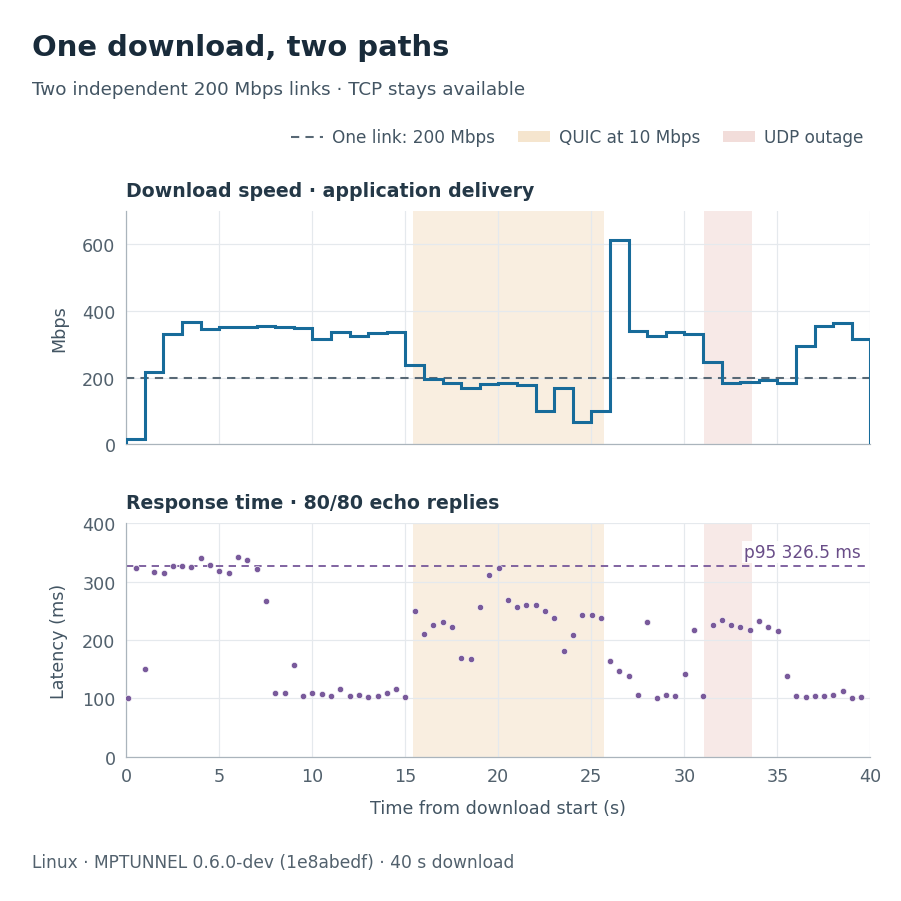
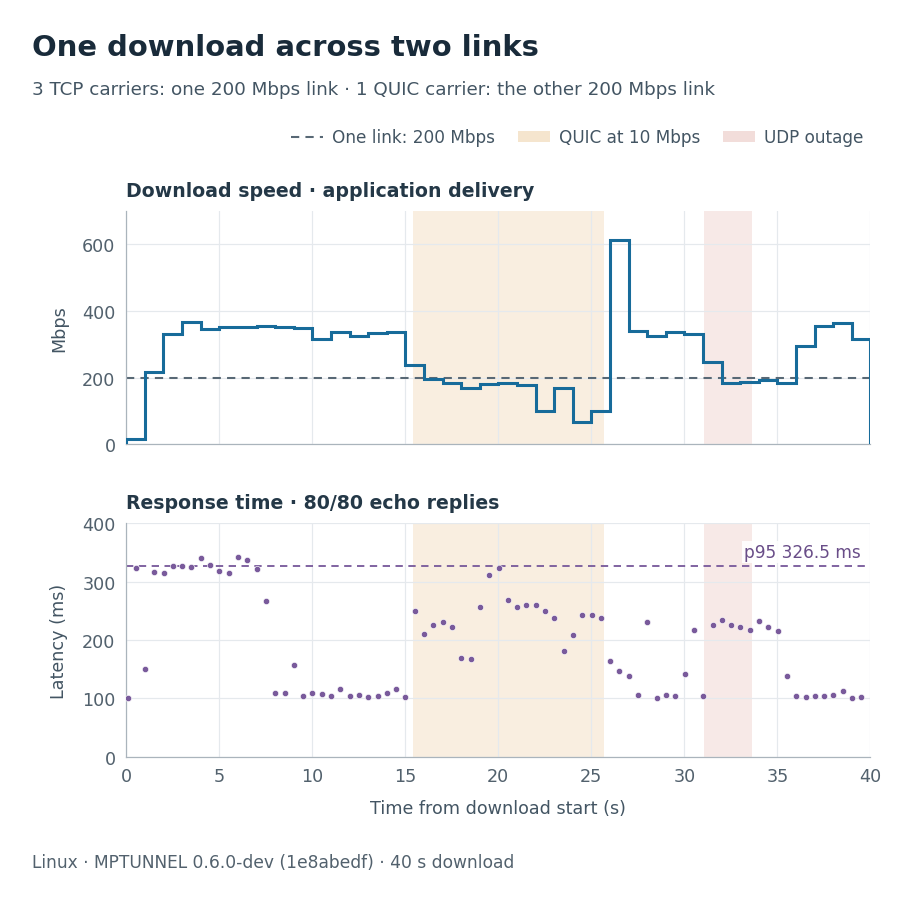
docs: explain carrier aggregation and benchmark topology
Accepted: introduce the motivation and many-carrier MPP model, distinguish configured paths from physical links, and label measured carrier sets before comparisons. Move version-specific upgrade guidance into the operations links. Preserve all measurements and comparison coverage.

Verified by an independent fresh-reader review, desktop and mobile browser screenshots, 66 local links, 6 documentation tests, 14 package-contract tests, and deterministic regeneration of all seven current figure assets.

Changed region(s): [[0.0311, 0.0932, 0.7769, 0.1243], [0.3108, 0.0311, 0.5905, 0.0622]]

diff --git a/docs/assets/performance/render.py b/docs/assets/performance/render.py
@@ -41,6 +41,13 @@ SYSTEM_LABELS = {
     "xray": "Xray VMess/TCP",
     "raw": "Direct TCP",
 }
+SYSTEM_CHART_LABELS = {
+    "mixed": "MPTUNNEL TCP+QUIC\n4 carriers: 3 TCP + 1 QUIC",
+    "h2": "Hysteria2",
+    "quic": "MPTUNNEL QUIC\n1 QUIC carrier",
+    "xray": "Xray VMess/TCP",
+    "raw": "Direct TCP",
+}
 SYSTEM_COLORS = {
     "mixed": "#176B9A",
     "h2": "#D58B24",
@@ -177,8 +184,12 @@ def _accessible_description(rows: list[dict[str, Any]]) -> str:
     return (
         "Two aligned horizontal bar charts compare download throughput, where higher is better, "
         "and loaded reply 95th-percentile latency, where lower is better. They show five "
-        "single observations while a bulk download and small requests share a 500 Mbps down, "
-        "100 Mbps up link. The dashed line marks the configured 500 Mbps download capacity. "
+        "single observations, each from a separate 40-second product run against the same "
+        "physical 500 Mbps down, 100 Mbps up link limit; the products did not compete "
+        "simultaneously. Within each run, that product's bulk download and small requests "
+        "share the link. MPTUNNEL TCP+QUIC used 3 TCP carriers plus 1 QUIC carrier; "
+        "MPTUNNEL QUIC used 1 QUIC carrier. The dashed line marks the configured 500 Mbps "
+        "download capacity. "
         + measurements
         + "."
     )
@@ -206,7 +217,7 @@ def _add_accessible_svg_header(path: Path, title: str, description: str) -> None
 def render_narrow_tradeoffs(rows: list[dict[str, Any]], svg_path: Path) -> None:
     """Render a stacked SVG variant that stays legible in narrow page columns."""
     ordered = sorted(rows, key=lambda row: row["goodput_mbps"], reverse=True)
-    labels = [SYSTEM_LABELS[row["system"]] for row in ordered]
+    labels = [SYSTEM_CHART_LABELS[row["system"]] for row in ordered]
     colors = [SYSTEM_COLORS[row["system"]] for row in ordered]
     y = list(range(len(ordered)))
     throughput = [row["goodput_mbps"] for row in ordered]
@@ -233,7 +244,7 @@ def render_narrow_tradeoffs(rows: list[dict[str, Any]], svg_path: Path) -> None:
     fig.text(
         0.055,
         0.911,
-        "500 Mbps down / 100 Mbps up · downloading with small requests alongside",
+        "Separate product runs · same physical link: 500 down / 100 up Mbps",
         ha="left",
         va="top",
         fontsize=11.7,
@@ -490,12 +501,13 @@ def render_independent_paths(
     average = observation["average"]
 
     matplotlib.rcParams["svg.hashsalt"] = "mptunnel-independent-paths-v1"
-    title = "One download, two paths"
+    title = "One download across two links"
     description = (
         "The upper time series shows all forty raw one-second bins of aggregate application download throughput, "
-        "including startup. The dashed horizontal line is the configured 200 Mbps capacity of one link; it is "
-        "a setting reference, not a separately measured TCP throughput series. The blue transfer combines the "
-        "QUIC and TCP paths, and the TCP path remains configured at 200 Mbps while the QUIC link is shaped. "
+        "including startup. It combines 3 TCP carriers on one 200 Mbps link with 1 QUIC carrier on another "
+        "200 Mbps link. The dashed horizontal line is the configured 200 Mbps capacity of one link; it is a "
+        "setting reference, not a separately measured TCP throughput series. The TCP link remains configured "
+        "at 200 Mbps while the QUIC link is shaped. "
         f"The shaded QUIC command window spans {qos_start:.2f}–{qos_end:.2f} seconds. The shaded UDP block "
         f"runs between recorded transition points at {outage_start:.2f} and {outage_end:.2f} seconds. The lower "
         f"panel plots all eighty successful concurrent echo replies; their measured p95 is {echo_p95:.1f} ms. "
@@ -521,7 +533,7 @@ def render_independent_paths(
     fig.text(
         0.035,
         0.910,
-        "Two independent 200 Mbps links · TCP stays available",
+        "3 TCP carriers: one 200 Mbps link · 1 QUIC carrier: the other 200 Mbps link",
         ha="left",
         va="top",
         fontsize=12.0,
@@ -691,7 +703,7 @@ def render(
     conditions, input_rows = validate_observations(document)
     comparison = document["competitive"]
     rows = sorted(input_rows, key=lambda row: row["goodput_mbps"], reverse=True)
-    labels = [SYSTEM_LABELS[row["system"]] for row in rows]
+    labels = [SYSTEM_CHART_LABELS[row["system"]] for row in rows]
     colors = [SYSTEM_COLORS[row["system"]] for row in rows]
     y = list(range(len(rows)))
     throughput = [row["goodput_mbps"] for row in rows]
@@ -727,7 +739,7 @@ def render(
     fig.text(
         0.035,
         0.910,
-        "500 Mbps down / 100 Mbps up  ·  downloading while small requests run",
+        "Separate product runs · same physical link: 500 down / 100 up Mbps",
         ha="left",
         va="top",
         fontsize=12.3,
@@ -888,10 +900,11 @@ def render_shared_timeline() -> None:
                              gridspec_kw={"height_ratios": [1.1, 1]}, facecolor="white")
     fig.subplots_adjust(left=0.115, right=0.97, top=0.76, bottom=0.12, hspace=0.38)
     fig.text(0.04, 0.96, title, fontsize=19, fontweight="semibold", color="#192B3A")
-    fig.text(0.04, 0.921, "500 Mbps down / 100 Mbps up · jitter clears after startup",
+    fig.text(0.04, 0.921,
+             "Separate product runs · same physical link: 500 down / 100 up Mbps · jitter clears after startup",
              fontsize=11.5, color="#435563")
     handles = [Line2D([0], [0], color=colors[s], lw=2, marker=markers[s],
-                      markersize=4, label=SYSTEM_LABELS[s]) for s in order]
+                      markersize=4, label=SYSTEM_CHART_LABELS[s]) for s in order]
     fig.legend(handles=handles, loc="upper left", bbox_to_anchor=(0.04, 0.898),
                ncol=3, frameon=False, fontsize=10.5, handlelength=1.5, columnspacing=1.6)
     clear_start = min(row["jitter_clear"]["union_s"][0] for row in series.values())
@@ -931,8 +944,11 @@ def render_shared_timeline() -> None:
     fig.text(0.04, 0.035, "Linux · one 40 s run per system · MPTUNNEL 0.6.0-dev (1e8abedf)",
              fontsize=10.5, color="#52616D")
     description = (
-        "Two time-series panels compare MPTUNNEL TCP+QUIC, MPTUNNEL QUIC, Hysteria2, "
-        "Xray VMess/TCP and direct TCP. The first shows all forty one-second download "
+        "Two time-series panels compare MPTUNNEL TCP+QUIC with 3 TCP carriers and 1 QUIC "
+        "carrier, MPTUNNEL QUIC with 1 QUIC carrier, Hysteria2, Xray VMess/TCP and direct TCP. "
+        "Each product has its own 40-second run against the same physical 500 Mbps down, "
+        "100 Mbps up link limit; the products did not compete simultaneously. Within each run, "
+        "the product download and echo probes shared the link. The first panel shows all forty one-second download "
         "delivery bins; the second shows every echo latency at its request start time. "
         "The shaded band spans the recorded jitter-clear commands across the five runs. "
         "The dashed horizontal line is configured capacity, 500 Mbps. "

diff --git a/README.md b/README.md
@@ -4,61 +4,80 @@
 [![Release Build](https://github.com/mnihyc/mptunnel/actions/workflows/release.yml/badge.svg)](https://github.com/mnihyc/mptunnel/actions/workflows/release.yml)
 [![License: Apache-2.0](https://img.shields.io/badge/license-Apache--2.0-blue.svg)](LICENSE)
 
-**One connection. Multiple paths. TCP and QUIC together.**
+**Multipath tunneling for your existing applications.**
 
-MPTUNNEL is an encrypted proxy and tunnel that carries a single application
-connection over several network paths. Combine independent links for more
-capacity, use TCP and QUIC together, and recover undelivered data over another
-carrier when a path fails.
+MPTUNNEL is an encrypted proxy and tunnel that combines TCP and QUIC connections
+to carry your traffic. Even a single download or upload can use several of these
+connections at once, drawing on their available bandwidth and recovering through
+another connection when one stops making progress.
 
 [**Get started**](#quick-start) · [**Download**](../../releases/latest) ·
 [**Performance**](docs/PERFORMANCE.md) · [**Configuration**](examples/config.reference.toml)
 
 ## Why MPTUNNEL?
 
-A download, upload or long-lived connection can use more than one path without
-changes to the application. MPTUNNEL handles path selection and delivers the
-bytes back in order at the other end.
+A fast Internet link does not always mean a fast application connection.
+Individual connections can encounter rate limits, loss or congestion, and the
+best route or transport can change during a transfer. Other connections may
+still have useful capacity.
 
-- **Combine links within one connection.** Spread a transfer across independent
-  paths instead of assigning the entire connection to just one.
-- **Adapt in both directions.** Choose paths using live delivery and latency
-  measurements; upload and download can use different combinations.
-- **Recover across transports.** Move undelivered data to a surviving TCP or
-  QUIC carrier when another carrier stops making progress.
-- **Use it with your existing applications.** SOCKS5, HTTP CONNECT, a mixed
-  proxy listener, TCP/UDP forwarding and TUN share routing and DNS controls.
+MPTUNNEL's Multipath Proxy Protocol (MPP) groups TCP and/or QUIC connections into one
+tunnel between peers. Each transport connection is a **carrier**. MPP distributes
+parts of an application's byte stream across eligible carriers, tracks delivery,
+and puts the bytes back in order at the other end. Undelivered parts can be sent
+again over another carrier, so a transfer can keep moving when one carrier stalls.
 
 ```text
-                         ┌── TCP path ──┐
-Your app ── MPTUNNEL ────┤              ├──── MPTUNNEL ── Destination
-                         └── QUIC path ─┘
-                           one connection
+            One MPP session
+         ┌── TCP 1, 2, … ──┐
+MPTUNNEL ┤                 ├ MPTUNNEL
+         └── QUIC 1, 2, … ─┘
+          TCP, QUIC, or both
 ```
 
-Independent paths can add capacity. TCP and QUIC on the same physical link
-share its bandwidth, while giving the tunnel different transport options.
+Choose TCP-only, QUIC-only or mixed sets, from a few carriers to tens. One MPP
+session carries many application flows, and each reliable flow can use several
+carriers. Upload and download select carriers independently using live delivery
+and latency measurements; the set carrying data changes with demand and conditions.
+
+**Aggregation works on one network link or across several.** On one Internet
+link, parallel carriers share its total bandwidth and can help use it more fully
+when individual connections are limited. With separately routed links, a transfer
+can also draw on their combined capacity. Carrier count and link count are
+different: you can run many carriers through one network interface. To use
+separate links, configure endpoints and source routing to reach them.
+
+Applications connect through SOCKS5, HTTP CONNECT, a mixed proxy listener,
+TCP/UDP forwarding or TUN, with routing and DNS controls. They need no multipath
+support of their own. See the [path configuration guide](docs/OPERATIONS.md#path-policy-and-status)
+to choose carriers and their usage policies.
 
 <a name="performance"></a>
 
 ## See it in action
 
-The [performance guide](docs/PERFORMANCE.md) follows a transfer as one path
-slows down and goes offline, then compares download speed, responsiveness and
-CPU cost with Hysteria2, Xray and direct TCP.
+In the [two-link demonstration](docs/PERFORMANCE.md#one-connection-two-links),
+one download uses three TCP carriers on a 200 Mbps link and one QUIC carrier
+on a separate 200 Mbps link. It averages **268 Mbps** through a slowdown and
+brief UDP outage, using capacity beyond either individual link.
+
+The comparison below asks a different question: how much speed and responsiveness
+does each tunnel provide on **one 500 Mbps download / 100 Mbps upload link**?
+Each system runs separately. MPTUNNEL is measured with **3 TCP + 1 QUIC carriers**
+and with **1 QUIC carrier**.
 
 <a href="docs/PERFORMANCE.md#speed-and-responsiveness">
 <picture>
   <source media="(max-width: 600px)" srcset="docs/assets/performance/shared-link-tradeoffs-narrow.svg">
-  <img src="docs/assets/performance/shared-link-tradeoffs.svg" alt="Download speed and response latency on a shared 500 Mbps connection">
+  <img src="docs/assets/performance/shared-link-tradeoffs.svg" alt="Download speed and response latency with each system using the same 500 Mbps bandwidth limit">
 </picture>
 </a>
 
-In this 40-second Linux download, TCP+QUIC delivered **406 Mbps**;
-QUIC alone delivered **343 Mbps**, with 95% of small echo requests answered
-within **154 ms** during the download. The two modes offer different balances
-of speed and responsiveness.
-[See the setup, full timelines and results](docs/PERFORMANCE.md#speed-and-responsiveness).
+Over these 40-second Linux downloads, the mixed set delivered **406 Mbps**, with
+95% of small echo requests answered within **797 ms**. The single QUIC carrier
+delivered **343 Mbps** with a **154 ms** response p95. The
+[performance guide](docs/PERFORMANCE.md#speed-and-responsiveness) follows delivery
+and response times throughout each run and compares CPU cost alongside throughput.
 
 ## Know what your tunnel is doing
 
@@ -74,8 +93,9 @@ Enable the authenticated local dashboard using the
 ## Quick start
 
 Download the archive for your platform from
-[GitHub Releases](../../releases/latest). Generate one shared MPP credential,
-one shared transport key, and a separate TLS identity:
+[GitHub Releases](../../releases/latest) and use matching versions on both peers.
+Generate one shared MPP credential, one shared transport key, and a separate
+TLS identity:
 
 ```bash
 umask 077
@@ -126,9 +146,12 @@ Point an application at SOCKS5 `127.0.0.1:1080` or HTTP proxy `127.0.0.1:8080`:
 curl --proxy socks5h://127.0.0.1:1080 https://example.com
 ```
 
-**Upgrading to 0.6.0:** upgrade both client and server together. This release
-uses MPP wire version 16 and requires matching peers; see the
-[upgrade instructions](docs/OPERATIONS.md#mpp-wire-version-upgrade).
+A configured **path** names a remote endpoint and its carrier policy. A TCP path
+opens a carrier group (three by default, adjustable with `max-tcp-carriers`);
+each QUIC path creates one carrier. This example therefore has four carrier slots.
+Add path entries to build larger sets, including multiple QUIC carriers; the
+default session limit is 64 carrier slots. Paths use the operating system's
+routing unless you configure source addresses and routes.
 
 For persistent operation, copy `examples/client.toml` or
 `examples/server.toml` to `config.toml`, replace the placeholders, and validate
@@ -153,6 +176,7 @@ Start from [client.toml](examples/client.toml) and
 | Inspect traffic or update a running configuration | [Dashboard and management API](docs/OPERATIONS.md#management-api) |
 | Size buffers and memory for a VPS | [Resource envelopes](docs/OPERATIONS.md#resource-envelopes) |
 | Run as a service and collect logs | [Runtime supervision](docs/OPERATIONS.md#runtime-supervision) |
+| Upgrade an existing deployment | [Peer compatibility and upgrades](docs/OPERATIONS.md#mpp-wire-version-upgrade) |
 
 Experimental L3 packet tunneling is also available through `tun-l3` and
 `mpp-l3`, with server-managed address pools. See the

diff --git a/docs/PERFORMANCE.md b/docs/PERFORMANCE.md
@@ -1,24 +1,34 @@
 # Performance
 
-MPTUNNEL lets one connection use several paths. The useful questions are how
-much capacity those paths add, what happens when one slows down, and how the
-tunnel behaves while your other applications are using it.
+MPTUNNEL combines the service available from several TCP and/or QUIC
+**carriers**—the transport connections between its peers. A single application
+transfer can use several carriers, while other applications share the same MPP
+session. Carrier sets are configurable: TCP-only, QUIC-only or mixed, with a few
+connections or tens.
 
-These experiments show those behaviors: a transfer over independent links,
-a comparison on a shared connection, and longer transfers with changing
-network conditions.
+The network underneath those carriers determines the available capacity. Carriers
+on one Internet link share its bandwidth ceiling; parallel connections can still
+help use that bandwidth when individual connections are limited. Carriers routed
+over independent links can draw on each link's capacity. Both are aggregation;
+they give the tunnel different resources to work with.
+
+These experiments show what that means for a transfer: using two links,
+continuing through a slowdown, and serving small requests during a large download.
+They also compare throughput, latency and CPU cost with Hysteria2, Xray and direct
+TCP. Each figure names the carrier set and network conditions used.
 
 ## One connection, two links
 
-A single download crosses two independent **200 Mbps** links: one carries TCP,
-the other QUIC. We slow the QUIC link to **10 Mbps**, restore it, then introduce
-a brief UDP outage. The TCP link stays available throughout.
+A single download uses **3 TCP carriers on one 200 Mbps link** and **1 QUIC
+carrier on a separate 200 Mbps link**. The two links have independent bandwidth
+limits. We slow the QUIC link to **10 Mbps**, restore it, then introduce a brief
+UDP outage. The TCP link stays available throughout.
 
 [![A download using two independent links, with QUIC restriction and outage marked on the timeline](assets/performance/independent-paths.svg)](assets/performance/independent-paths.svg)
 
 With both links available, the download exceeds either link's individual
 capacity. When QUIC slows down or goes offline, the same download continues
-over the remaining carrier. After recovery, it uses the added capacity again.
+over the TCP carriers. After recovery, it uses the added capacity again.
 The second panel shows the response time of small requests alongside the
 transfer.
 
@@ -39,16 +49,19 @@ more than its 2.5-second budget. All 25 requests before and after each transfer
 completed on time. [Both directions and the earlier-version comparisons](PERFORMANCE_DETAILS.md#independent-link-download-during-a-qos-change-and-udp-outage)
 are included in the complete results.
 
-This is where multipath is useful: a long transfer can draw on separate
-bottlenecks and retain another way forward when one transport is restricted.
-TCP and QUIC sharing one physical bottleneck still share its total capacity.
+Here aggregation lets one application use more capacity than either link supplies
+alone, while retaining another way forward when one transport is restricted.
 
 ## Speed and responsiveness
 
-Here every system uses the same **500 Mbps download / 100 Mbps upload**
-connection. A download runs for 40 seconds while small echo requests measure
-responsiveness. The link starts with jitter, which clears about eight to nine seconds
-into each run.
+Here all carriers in a run pass through one **500 Mbps download / 100 Mbps
+upload** bandwidth limit: a shared bottleneck. Each system is tested separately
+on that network. MPTUNNEL uses **3 TCP + 1 QUIC carriers** in the mixed case and
+**1 QUIC carrier** in the QUIC-only case. These are two example configurations;
+you can choose other carrier counts and combinations.
+
+A download runs for 40 seconds while small echo requests measure responsiveness.
+The link starts with jitter, which clears about eight to nine seconds into each run.
 
 <a href="assets/performance/shared-link-tradeoffs.svg">
 <picture>
@@ -57,15 +70,16 @@ into each run.
 </picture>
 </a>
 
-MPTUNNEL's TCP+QUIC mode delivered the most data over this interval, at
-**406 Mbps**. QUIC alone delivered **343 Mbps** with a **154 ms** response p95,
-compared with **797 ms** for TCP+QUIC. Hysteria2 delivered **367 Mbps** with
-**427 ms** p95. Xray and direct TCP had the lowest response p95, both **122 ms**.
+MPTUNNEL's 3 TCP + 1 QUIC set delivered the most data over this interval, at
+**406 Mbps**. The single QUIC carrier delivered **343 Mbps** with a **154 ms**
+response p95, compared with **797 ms** for the mixed set. Hysteria2 delivered
+**367 Mbps** with **427 ms** p95. Xray and direct TCP had the lowest response p95,
+both **122 ms**.
 
 For bulk transfers, throughput matters; for browsing or interactive work
-alongside a download, response time matters too. These results make that choice
-visible. Mixing transports offers additional delivery options and also adds
-scheduling and recovery work.
+alongside a download, response time matters too. Here the mixed set delivered
+more bulk data while small requests took longer. The timing curves below show
+both effects as conditions change.
 
 <details>
 <summary>Follow each download and response over time</summary>
@@ -88,8 +102,8 @@ The shared-link experiment above measured the following process CPU costs:
 
 | System | Client CPU seconds / GiB | Server CPU seconds / GiB |
 | --- | ---: | ---: |
-| MPTUNNEL QUIC | 17.6 | 25.1 |
-| MPTUNNEL TCP+QUIC | 13.0 | 22.6 |
+| MPTUNNEL 1 QUIC | 17.6 | 25.1 |
+| MPTUNNEL 3 TCP + 1 QUIC | 13.0 | 22.6 |
 | Hysteria2 | 22.1 | 20.5 |
 | Xray VMess/TCP | 2.5 | 1.2 |
 
@@ -106,15 +120,16 @@ process residency for the earlier test set.
 
 ## Browsing alongside transfers, and longer runs
 
-On a healthy shared 500 Mbps link, ordinary TCP+QUIC transfers delivered
-**407 Mbps down** and **444 Mbps up**. All 55 loaded HTTP requests completed in
+On a healthy 500 Mbps link shared by its carriers, MPTUNNEL's 3 TCP + 1 QUIC set
+delivered **407 Mbps down** and **444 Mbps up**. All 55 loaded HTTP requests completed in
 each direction; seven download-side and one upload-side request exceeded the
 2.5-second response budget. These requests each fetched a 100 kB body on a fixed
 schedule, so a slow response did not reduce the number of requests offered.
 
-Five-minute TCP+QUIC transfers used separate 500 Mbps QUIC and 200 Mbps TCP
-links, with changing loss and jitter on QUIC. Download averaged **226 Mbps**;
-upload averaged **387 Mbps**. Combined endpoint traffic was **1.776 bytes per
+Five-minute transfers used one QUIC carrier on a 500 Mbps link and three TCP
+carriers on a separate 200 Mbps link, with changing loss and jitter on QUIC.
+Download averaged **226 Mbps**; upload averaged **387 Mbps**.
+Combined endpoint traffic was **1.776 bytes per
 downloaded byte** and **1.258 bytes per uploaded byte**, including acknowledgements,
 control messages and recovery traffic.
 
